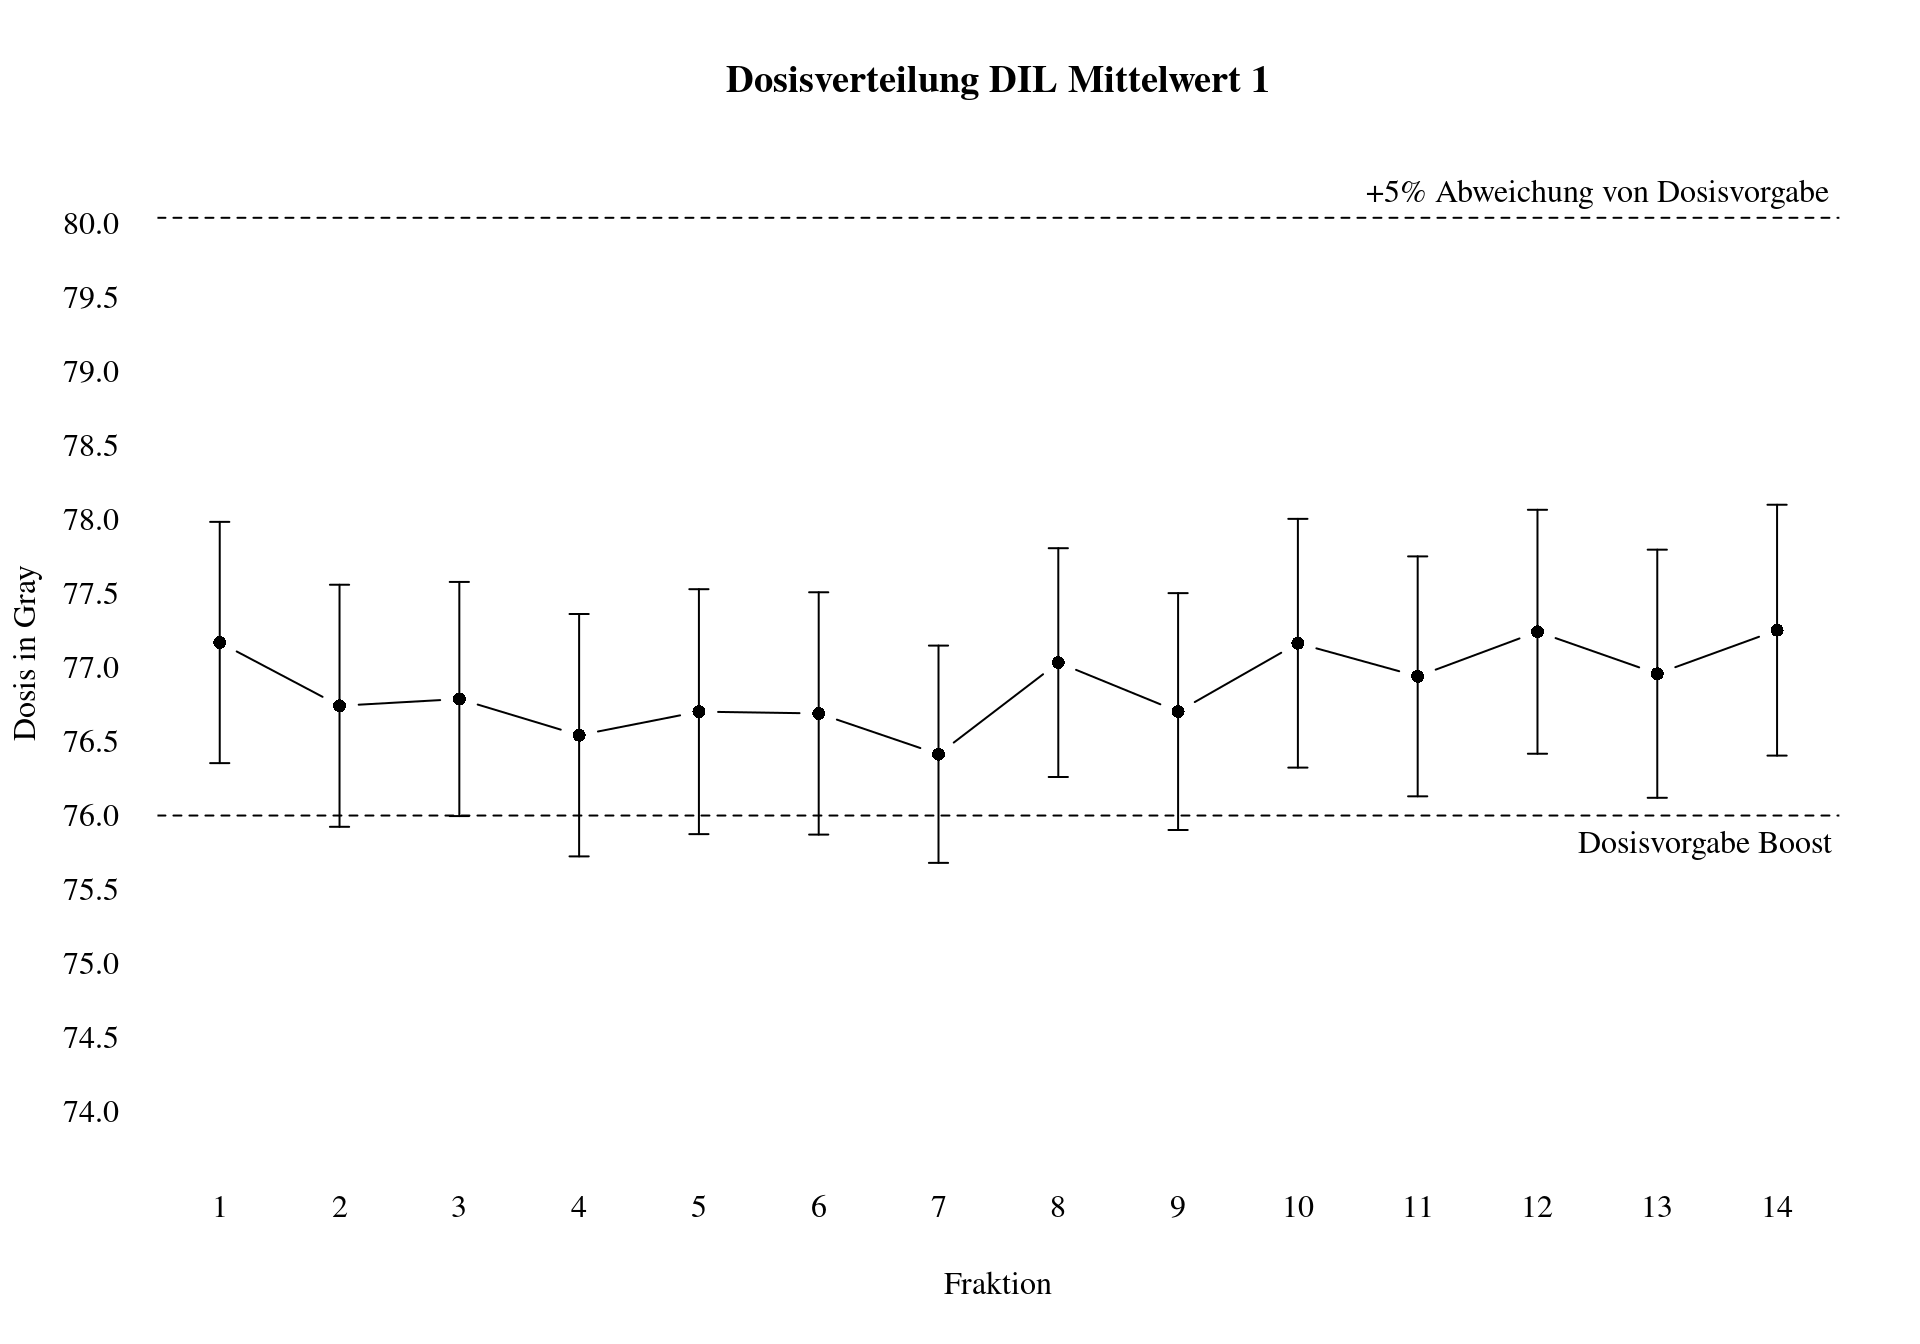
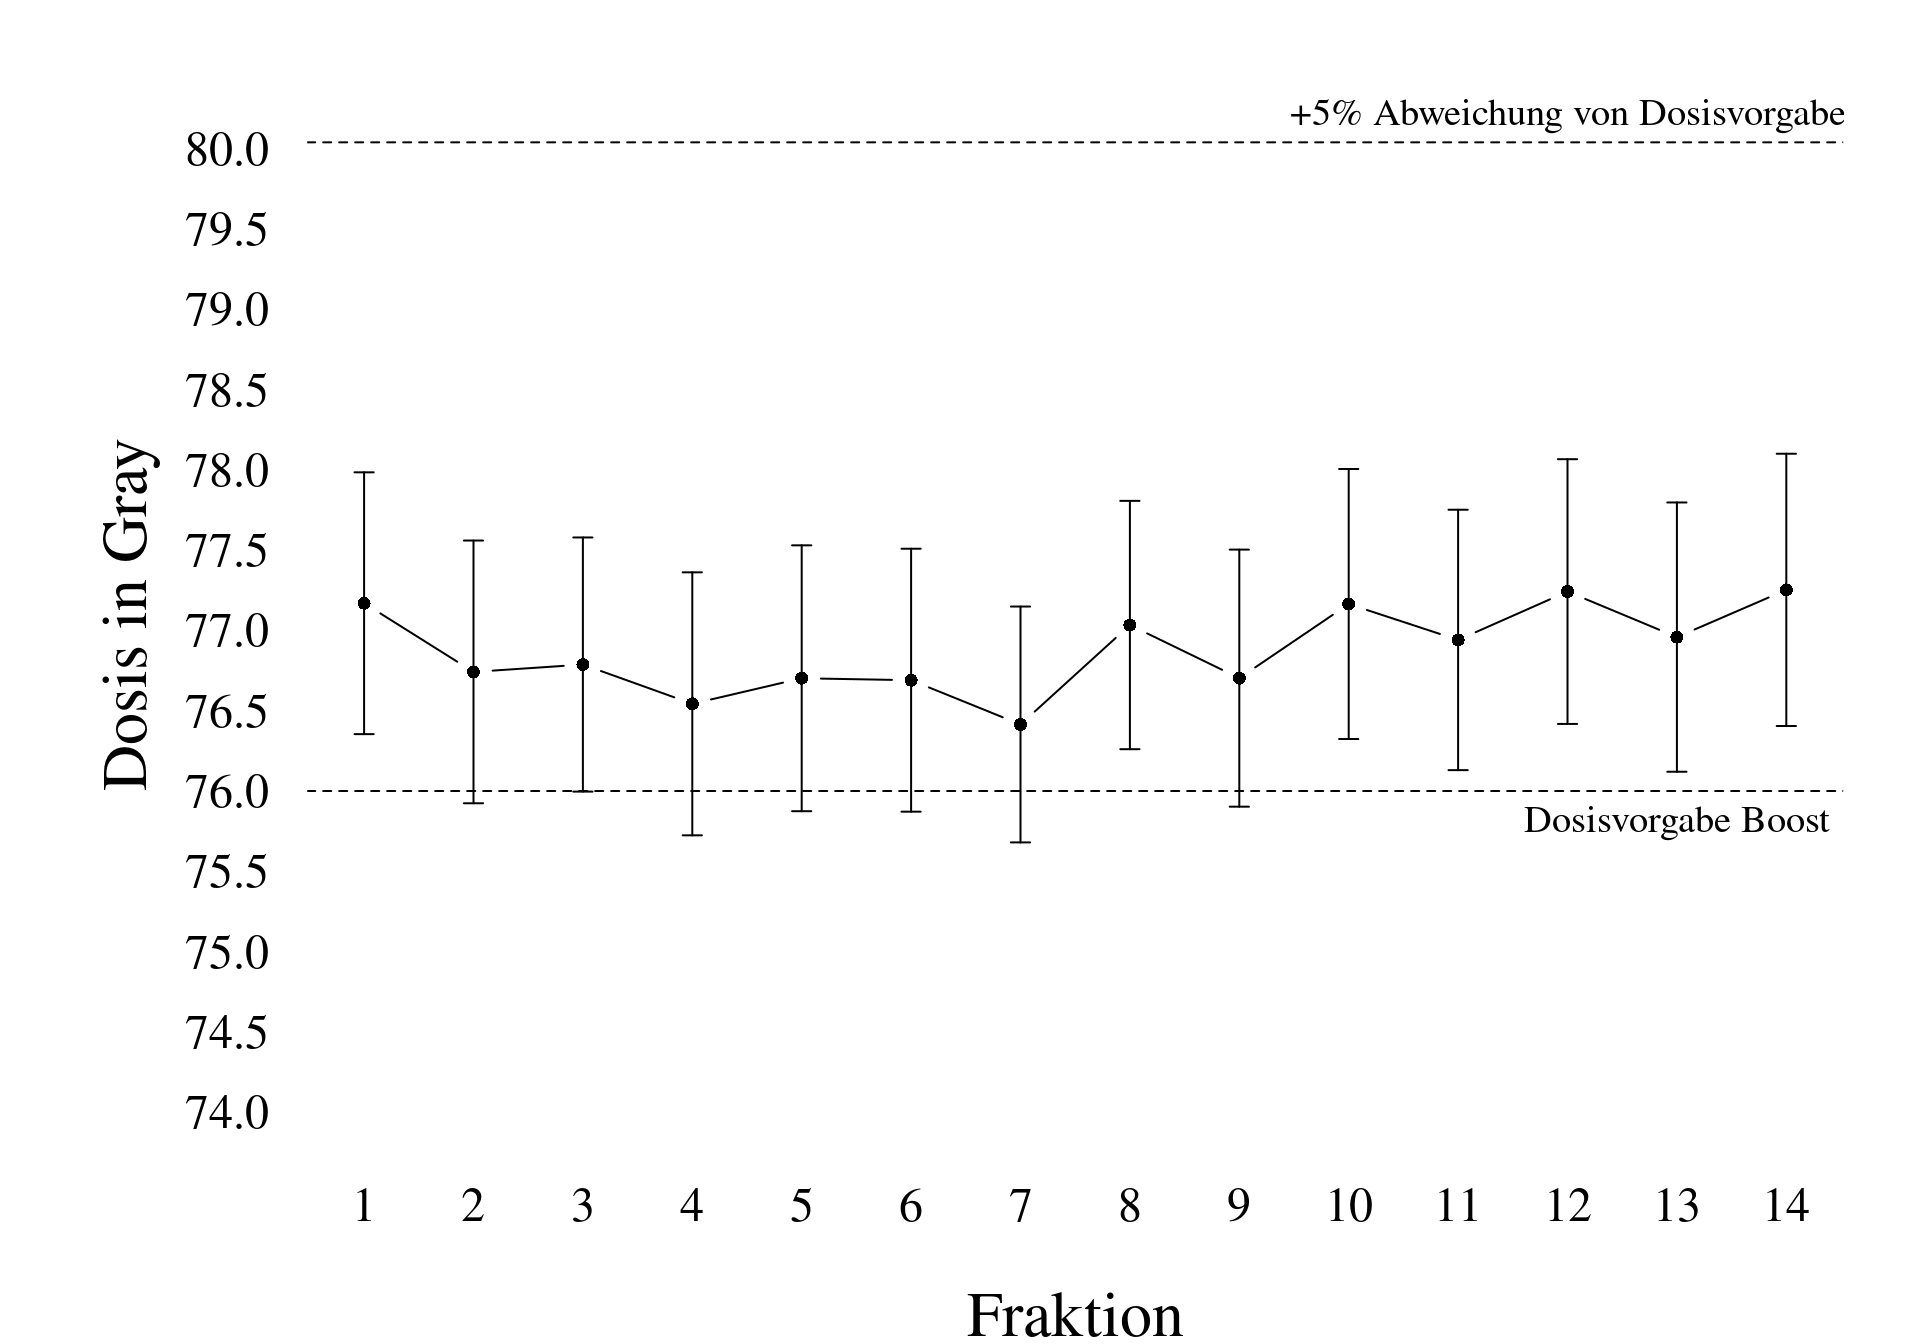
Build site.

diff --git a/docs/first-analysis.html b/docs/first-analysis.html
@@ -503,16 +503,16 @@ This reproducible <a href="http://rmarkdown.rstudio.com">R Markdown</a> analysis
 <div class="panel panel-default">
 <div class="panel-heading">
 <p class="panel-title">
-<a data-toggle="collapse" data-parent="#workflowr-checks" href="#strongRepositoryversionstrongahrefhttpsgithubcomdssrttnTesttree2708fab6a1ee8a0118287d7592932217b627721btargetblank2708faba"> <span class="glyphicon glyphicon-ok text-success" aria-hidden="true"></span> <strong>Repository version:</strong> <a href="https://github.com/dssrttn/Test/tree/2708fab6a1ee8a0118287d7592932217b627721b" target="_blank">2708fab</a> </a>
+<a data-toggle="collapse" data-parent="#workflowr-checks" href="#strongRepositoryversionstrongahrefhttpsgithubcomdssrttnTesttree2b23390521efe883bfc4b88a8c1fbde1e89001d6targetblank2b23390a"> <span class="glyphicon glyphicon-ok text-success" aria-hidden="true"></span> <strong>Repository version:</strong> <a href="https://github.com/dssrttn/Test/tree/2b23390521efe883bfc4b88a8c1fbde1e89001d6" target="_blank">2b23390</a> </a>
 </p>
 </div>
[2 lines of base64/hex data omitted]
 <div class="panel-body">
 <p>
 Great! You are using Git for version control. Tracking code development and connecting the code version to the results is critical for reproducibility.
 </p>
 <p>
-The results in this page were generated with repository version <a href="https://github.com/dssrttn/Test/tree/2708fab6a1ee8a0118287d7592932217b627721b" target="_blank">2708fab</a>. See the <em>Past versions</em> tab to see a history of the changes made to the R Markdown and HTML files.
+The results in this page were generated with repository version <a href="https://github.com/dssrttn/Test/tree/2b23390521efe883bfc4b88a8c1fbde1e89001d6" target="_blank">2b23390</a>. See the <em>Past versions</em> tab to see a history of the changes made to the R Markdown and HTML files.
 </p>
 <p>
 Note that you need to be careful to ensure that all relevant files for the analysis have been committed to Git prior to generating the results (you can use <code>wflow_publish</code> or <code>wflow_git_commit</code>). workflowr only checks the R Markdown file, but you know if there are other scripts or data files that it depends on. Below is the status of the Git repository when the results were generated:
@@ -565,6 +565,40 @@ Message
 </tr>
 </thead>
 <tbody>
+<tr>
+<td>
+Rmd
+</td>
+<td>
+<a href="https://github.com/dssrttn/Test/blob/2b23390521efe883bfc4b88a8c1fbde1e89001d6/analysis/first-analysis.Rmd" target="_blank">2b23390</a>
+</td>
+<td>
+Mein Vorname
+</td>
+<td>
+2020-06-22
+</td>
+<td>
+Verbesserungen histogramm und boxplot
+</td>
+</tr>
+<tr>
+<td>
+html
+</td>
+<td>
+<a href="https://rawcdn.githack.com/dssrttn/Test/30b9a8c326428d8ac301a65326f6bbf97d44e59c/docs/first-analysis.html" target="_blank">30b9a8c</a>
+</td>
+<td>
+Mein Vorname
+</td>
+<td>
+2020-06-22
+</td>
+<td>
+Build site.
+</td>
+</tr>
 <tr>
 <td>
 Rmd
@@ -917,15 +951,18 @@ var(DIL_1$Mittelwert)</code></pre>
 </div>
 <div id="including-plots" class="section level2">
 <h2>Including Plots</h2>
-<pre class="r"><code>plot(x, y, ylim=c(74, 80.2), xlab=&quot;Fraktion&quot;, family=&quot;serif&quot;, ylab=&quot;Dosis in Gray&quot;, family=&quot;serif&quot;, axes = FALSE, pch=16, cex=0.9, main=&quot;Dosisverteilung DIL Mittelwert 1&quot;, type=&quot;b&quot;)
-text(x=13.4, y = 75.8, labels=&quot;Dosisvorgabe Boost&quot;, family=&quot;serif&quot;)&gt; 
-text(x=12.5, y = 80.2, labels=&quot;+5% Abweichung von Dosisvorgabe&quot;, family=&quot;serif&quot;)</code></pre>
-<pre><code>logical(0)</code></pre>
-<pre class="r"><code>axis(1, at=x, label=x, tick=F, family=&quot;serif&quot;)
+<pre class="r"><code>par(family=&quot;serif&quot;) # Schriftart
+par(mar = c(5, 8, 2, 2)) # Abstände um den Plot. 2. Po´ition y-Achse
+par(mgp=c(4,1,0)) # mpg: Abstand Label zu Achse
+plot(x, y, ylim=c(74, 80.2), xlab=&quot;Fraktion&quot;, family=&quot;serif&quot;, ylab=&quot;Dosis in Gray&quot;, family=&quot;serif&quot;, cex.lab=2, cex.axis=1.5, axes = FALSE, pch=16, cex=0.9, #main=&quot;Dosisverteilung DIL Mittelwert 1&quot;
+     type=&quot;b&quot;)
+text(x=13.0, y = 75.8, labels=&quot;Dosisvorgabe Boost&quot;, family=&quot;serif&quot;, cex = 1.2) 
+text(x=12.0, y = 80.2, labels=&quot;+5% Abweichung von Dosisvorgabe&quot;, family=&quot;serif&quot;, cex = 1.2)
+axis(1, at=x, label=x, tick=F, cex.lab=2, cex.axis=1.5, family=&quot;serif&quot;)
 arrows(x0=x, y0=y-y.sd, x1=x, y1=y+y.sd, code=3, angle=90, length=0.05)
 abline(a=76,23, b=0, lty=2)
 abline(a=80.04, b=0, lty=2)
-axis(2, at=seq(74,81,0.5), tick=F, las=2, family=&quot;serif&quot;)</code></pre>
+axis(2, at=seq(74,81,0.5), tick=F, las=2, cex.lab=2, cex.axis=1.5, family=&quot;serif&quot;)</code></pre>
 <p><img src="figure/first-analysis.Rmd/unnamed-chunk-2-1.png" width="960" style="display: block; margin: auto;" /></p>
 <p>
 <button type="button" class="btn btn-default btn-xs btn-workflowr btn-workflowr-fig" data-toggle="collapse" data-target="#fig-unnamed-chunk-2-1">
@@ -1005,6 +1042,17 @@ Date
 <tbody>
 <tr>
 <td>
+<a href="https://github.com/dssrttn/Test/blob/30b9a8c326428d8ac301a65326f6bbf97d44e59c/docs/figure/first-analysis.Rmd/unnamed-chunk-3-1.png" target="_blank">30b9a8c</a>
+</td>
+<td>
+Mein Vorname
+</td>
+<td>
+2020-06-22
+</td>
+</tr>
+<tr>
+<td>
 <a href="https://github.com/dssrttn/Test/blob/0965294d32cacb1d68a8962a45999c0faba1c1e4/docs/figure/first-analysis.Rmd/unnamed-chunk-3-1.png" target="_blank">0965294</a>
 </td>
 <td>
@@ -1066,6 +1114,17 @@ Date
 </tr>
 </thead>
 <tbody>
+<tr>
+<td>
+<a href="https://github.com/dssrttn/Test/blob/30b9a8c326428d8ac301a65326f6bbf97d44e59c/docs/figure/first-analysis.Rmd/unnamed-chunk-4-1.png" target="_blank">30b9a8c</a>
+</td>
+<td>
+Mein Vorname
+</td>
+<td>
+2020-06-22
+</td>
+</tr>
 <tr>
 <td>
 <a href="https://github.com/dssrttn/Test/blob/764b5cc40a7df86321814f202939ff616af9c3d4/docs/figure/first-analysis.Rmd/unnamed-chunk-4-1.png" target="_blank">764b5cc</a>
